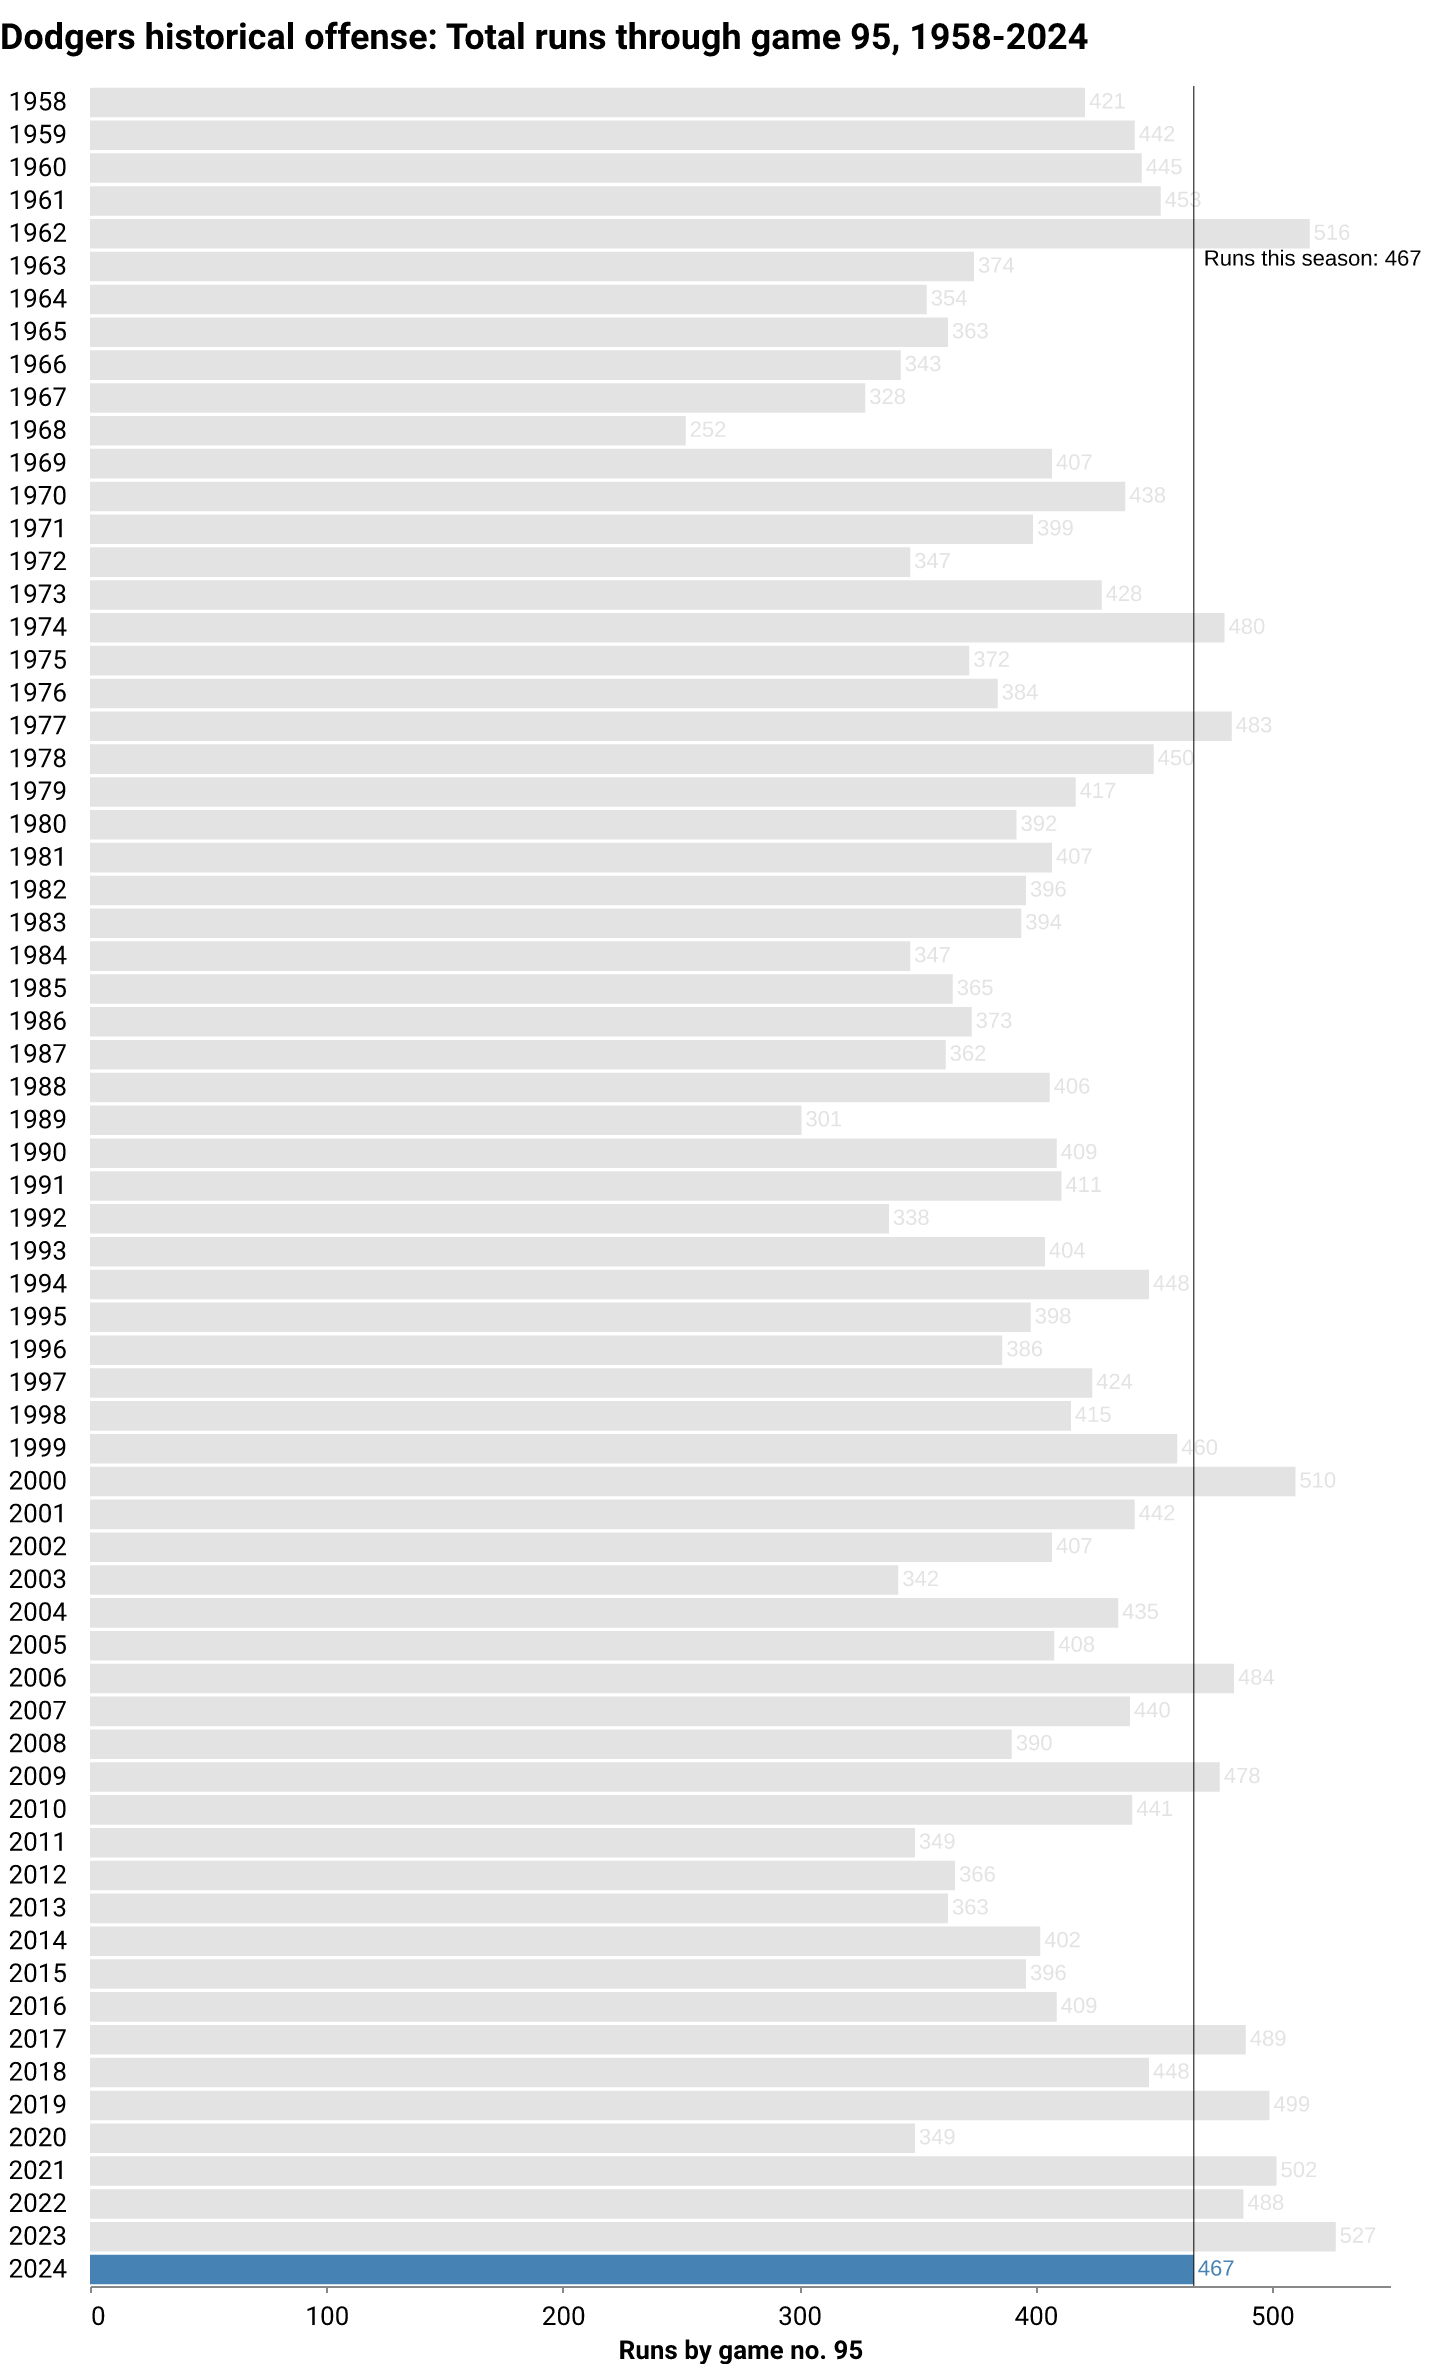
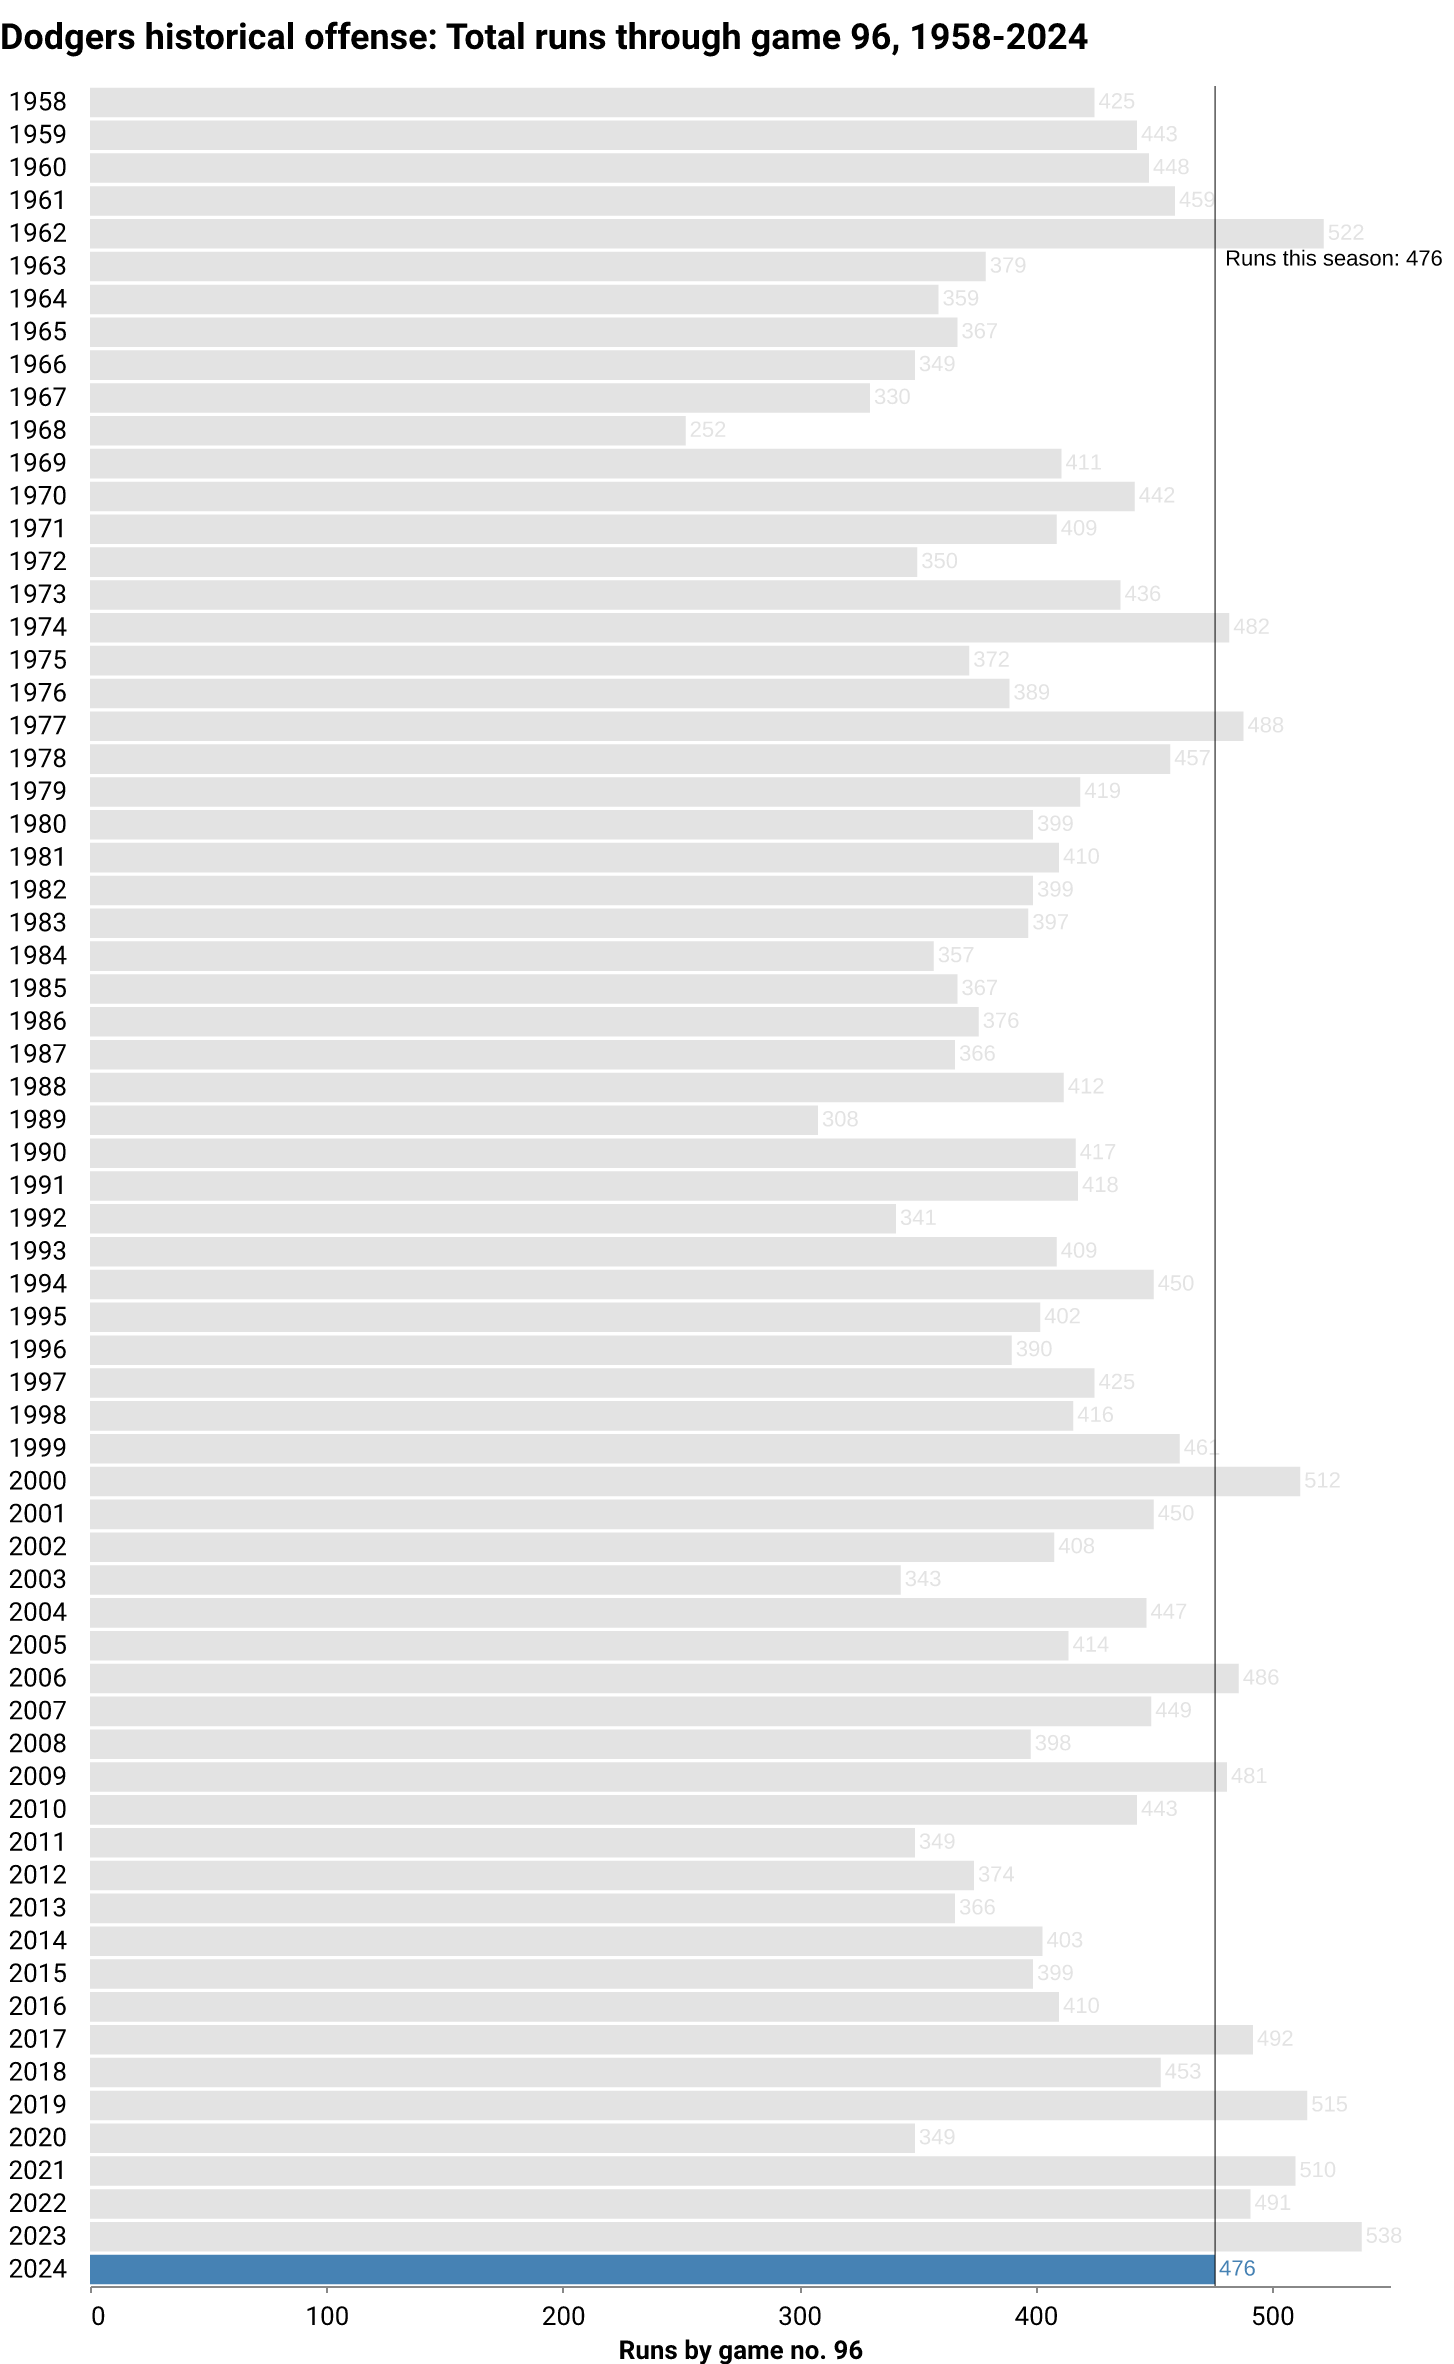
deploy: 541b7fd4b6cf1f8c0acb472841164268be6809d9

diff --git a/index.html b/index.html
@@ -177,14 +177,14 @@
     
     
     
-        <i class="fa-solid fa-arrow-trend-up" style="color: #005a9c;"></i>
+        <i class="fa-solid fa-arrow-trend-down" style="color: #ef3e42;"></i>
     
 </div>
 <h1 class="headline">How are the Dodgers doing?</h1>
 <p class="subhead">
     
     
-    <span class="highlight">LOS ANGELES</span> <span class="updated">(July 14)</span> — After <span class="highlight">95</span> games this season, the Dodgers are in <span class="highlight">1st</span> place in the National League West division. The team has compiled a <span class="highlight">56-39</span> record, winning <span class="highlight">59%</span> of its games so far. The last game was a <span class="highlight">4-3</span> away <span class="highlight">win</span> against the Detroit Tigers in front of <span class="highlight">42,060</span> fans. They've won <span class="highlight">4 of the last 10</span>.
+    <span class="highlight">LOS ANGELES</span> <span class="updated">(July 14)</span> — After <span class="highlight">96</span> games this season, the Dodgers are in <span class="highlight">1st</span> place in the National League West division. The team has compiled a <span class="highlight">56-40</span> record, winning <span class="highlight">57%</span> of its games so far. The last game was a <span class="highlight">9-11</span> away <span class="highlight">loss</span> against the Detroit Tigers in front of <span class="highlight">40,196</span> fans. They've won <span class="highlight">3 of the last 10</span>.
 </p>
 </div>
 
@@ -209,7 +209,7 @@
             <p class="card-text">56</p>
           </div>
           <div class="card-footer text-muted">
-        This point last season: 55
+        This point last season: 56
           </div>
         </div>
       </div>
@@ -222,7 +222,7 @@
             Losses
           </div>
           <div class="card-body">
-            <p class="card-text">39</p>
+            <p class="card-text">40</p>
           </div>
           <div class="card-footer text-muted">
         This point last season: 40
@@ -238,10 +238,10 @@
             Record
           </div>
           <div class="card-body">
-            <p class="card-text">56-39</p>
+            <p class="card-text">56-40</p>
           </div>
           <div class="card-footer text-muted">
-        This point last season: 55-40
+        This point last season: 56-40
           </div>
         </div>
       </div>
@@ -254,7 +254,7 @@
             Win percentage
           </div>
           <div class="card-body">
-            <p class="card-text">59%</p>
+            <p class="card-text">57%</p>
           </div>
           <div class="card-footer text-muted">
         This point last season: 57%
@@ -270,7 +270,7 @@
             Games up/back
           </div>
           <div class="card-body">
-            <p class="card-text">8.0</p>
+            <p class="card-text">7.0</p>
           </div>
           <div class="card-footer text-muted">
         Division rank: 1
@@ -302,7 +302,7 @@
             Runs
           </div>
           <div class="card-body">
-            <p class="card-text">467</p>
+            <p class="card-text">476</p>
           </div>
           <div class="card-footer text-muted">
         League rank: 1
@@ -318,10 +318,10 @@
             Runs against
           </div>
           <div class="card-body">
-            <p class="card-text">376</p>
+            <p class="card-text">387</p>
           </div>
           <div class="card-footer text-muted">
-        This point last season: 436
+        This point last season: 441
           </div>
         </div>
       </div>
@@ -334,10 +334,10 @@
             Run differential
           </div>
           <div class="card-body">
-            <p class="card-text">91</p>
+            <p class="card-text">89</p>
           </div>
           <div class="card-footer text-muted">
-        This point last season: 91
+        This point last season: 97
           </div>
         </div>
       </div>
@@ -424,7 +424,7 @@
             Home runs
           </div>
           <div class="card-body">
-            <p class="card-text">127</p>
+            <p class="card-text">129</p>
           </div>
           <div class="card-footer text-muted">
         League rank: 1
@@ -456,7 +456,7 @@
             On-base percentage
           </div>
           <div class="card-body">
-            <p class="card-text">.333</p>
+            <p class="card-text">.335</p>
           </div>
           <div class="card-footer text-muted">
         Last decade average: .332
@@ -472,7 +472,7 @@
             Stolen bases
           </div>
           <div class="card-body">
-            <p class="card-text">57</p>
+            <p class="card-text">58</p>
           </div>
           <div class="card-footer text-muted">
         League rank: 9
@@ -598,10 +598,10 @@
             Strikeouts
           </div>
           <div class="card-body">
-            <p class="card-text">804</p>
+            <p class="card-text">812</p>
           </div>
           <div class="card-footer text-muted">
-        League rank: 6
+        League rank: 7
           </div>
         </div>
       </div>
@@ -614,7 +614,7 @@
             Walks
           </div>
           <div class="card-body">
-            <p class="card-text">290</p>
+            <p class="card-text">292</p>
           </div>
           <div class="card-footer text-muted">
         League rank: 8
@@ -630,7 +630,7 @@
             ERA
           </div>
           <div class="card-body">
-            <p class="card-text">3.71</p>
+            <p class="card-text">3.76</p>
           </div>
           <div class="card-footer text-muted">
         League rank: 3
@@ -708,7 +708,7 @@
     </div>
 </div>
 
-  <p class="dated">Notes: Last updated July 14, 2024, 12:04 AM PT. More <a href="https://github.com/stiles/dodgers/blob/main/README.md">about the data</a>.</p>
+  <p class="dated">Notes: Last updated July 14, 2024, 4:03 AM PT. More <a href="https://github.com/stiles/dodgers/blob/main/README.md">about the data</a>.</p>
   
 </div>
 
